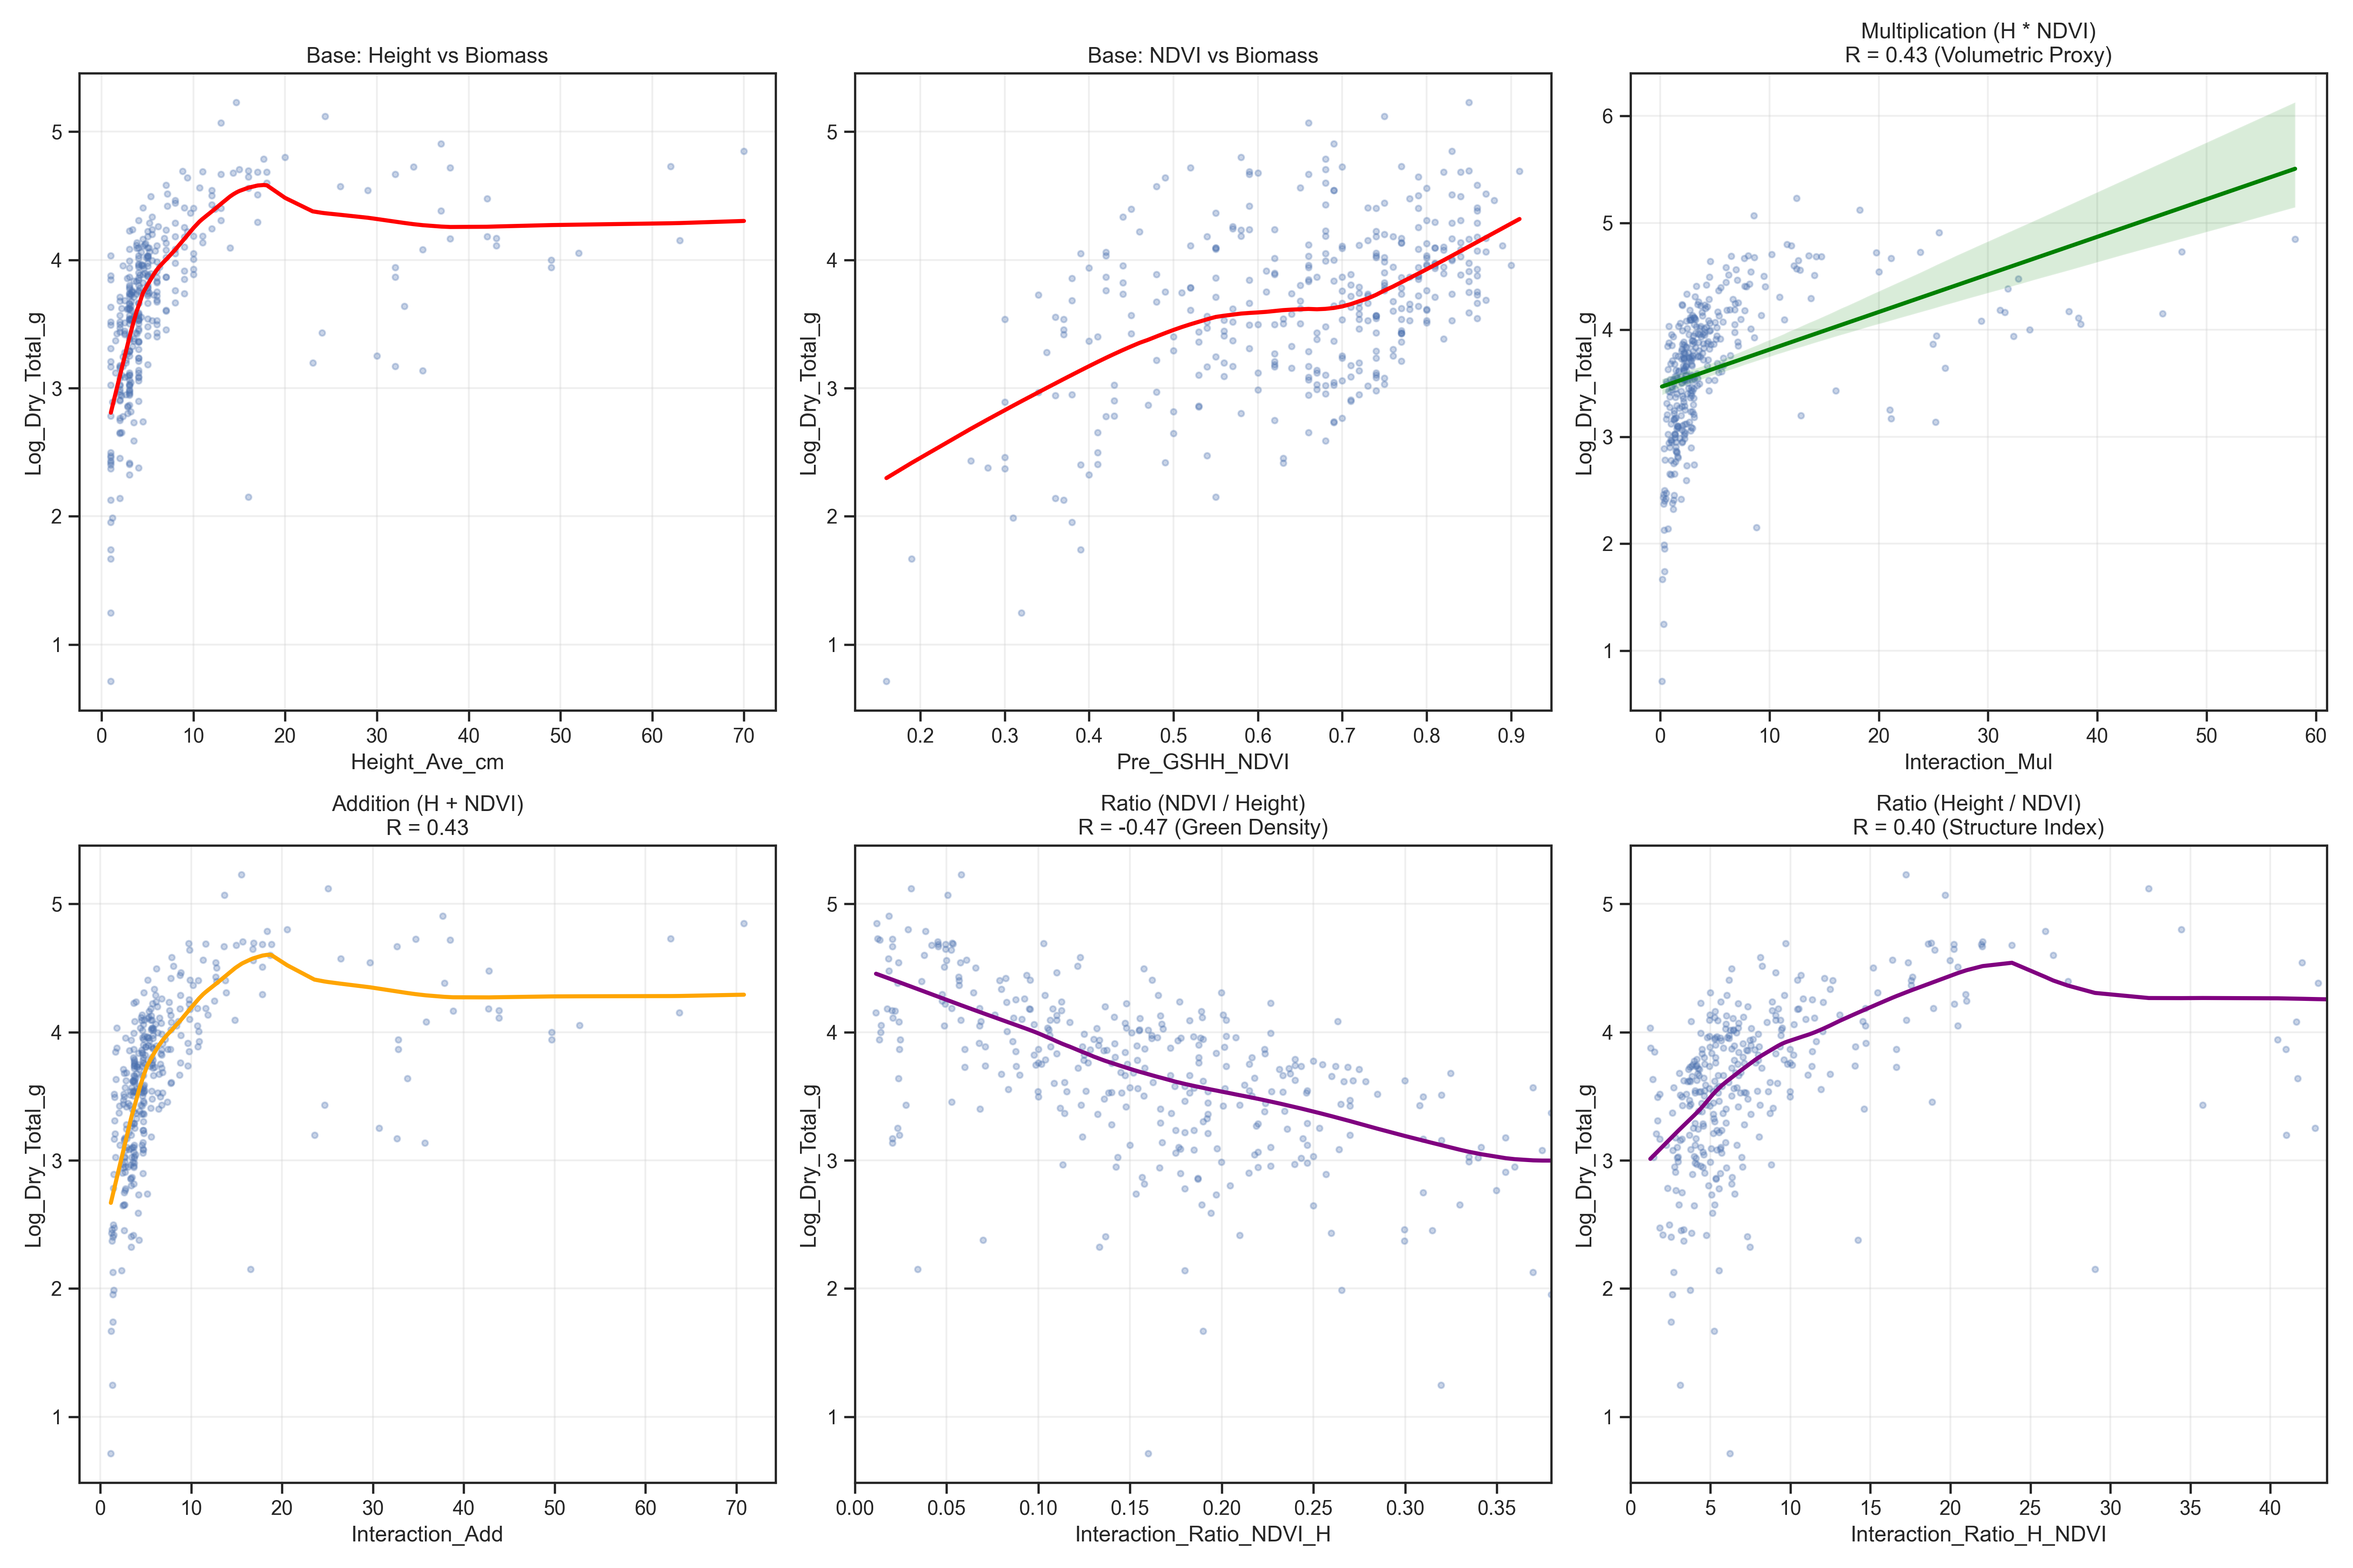
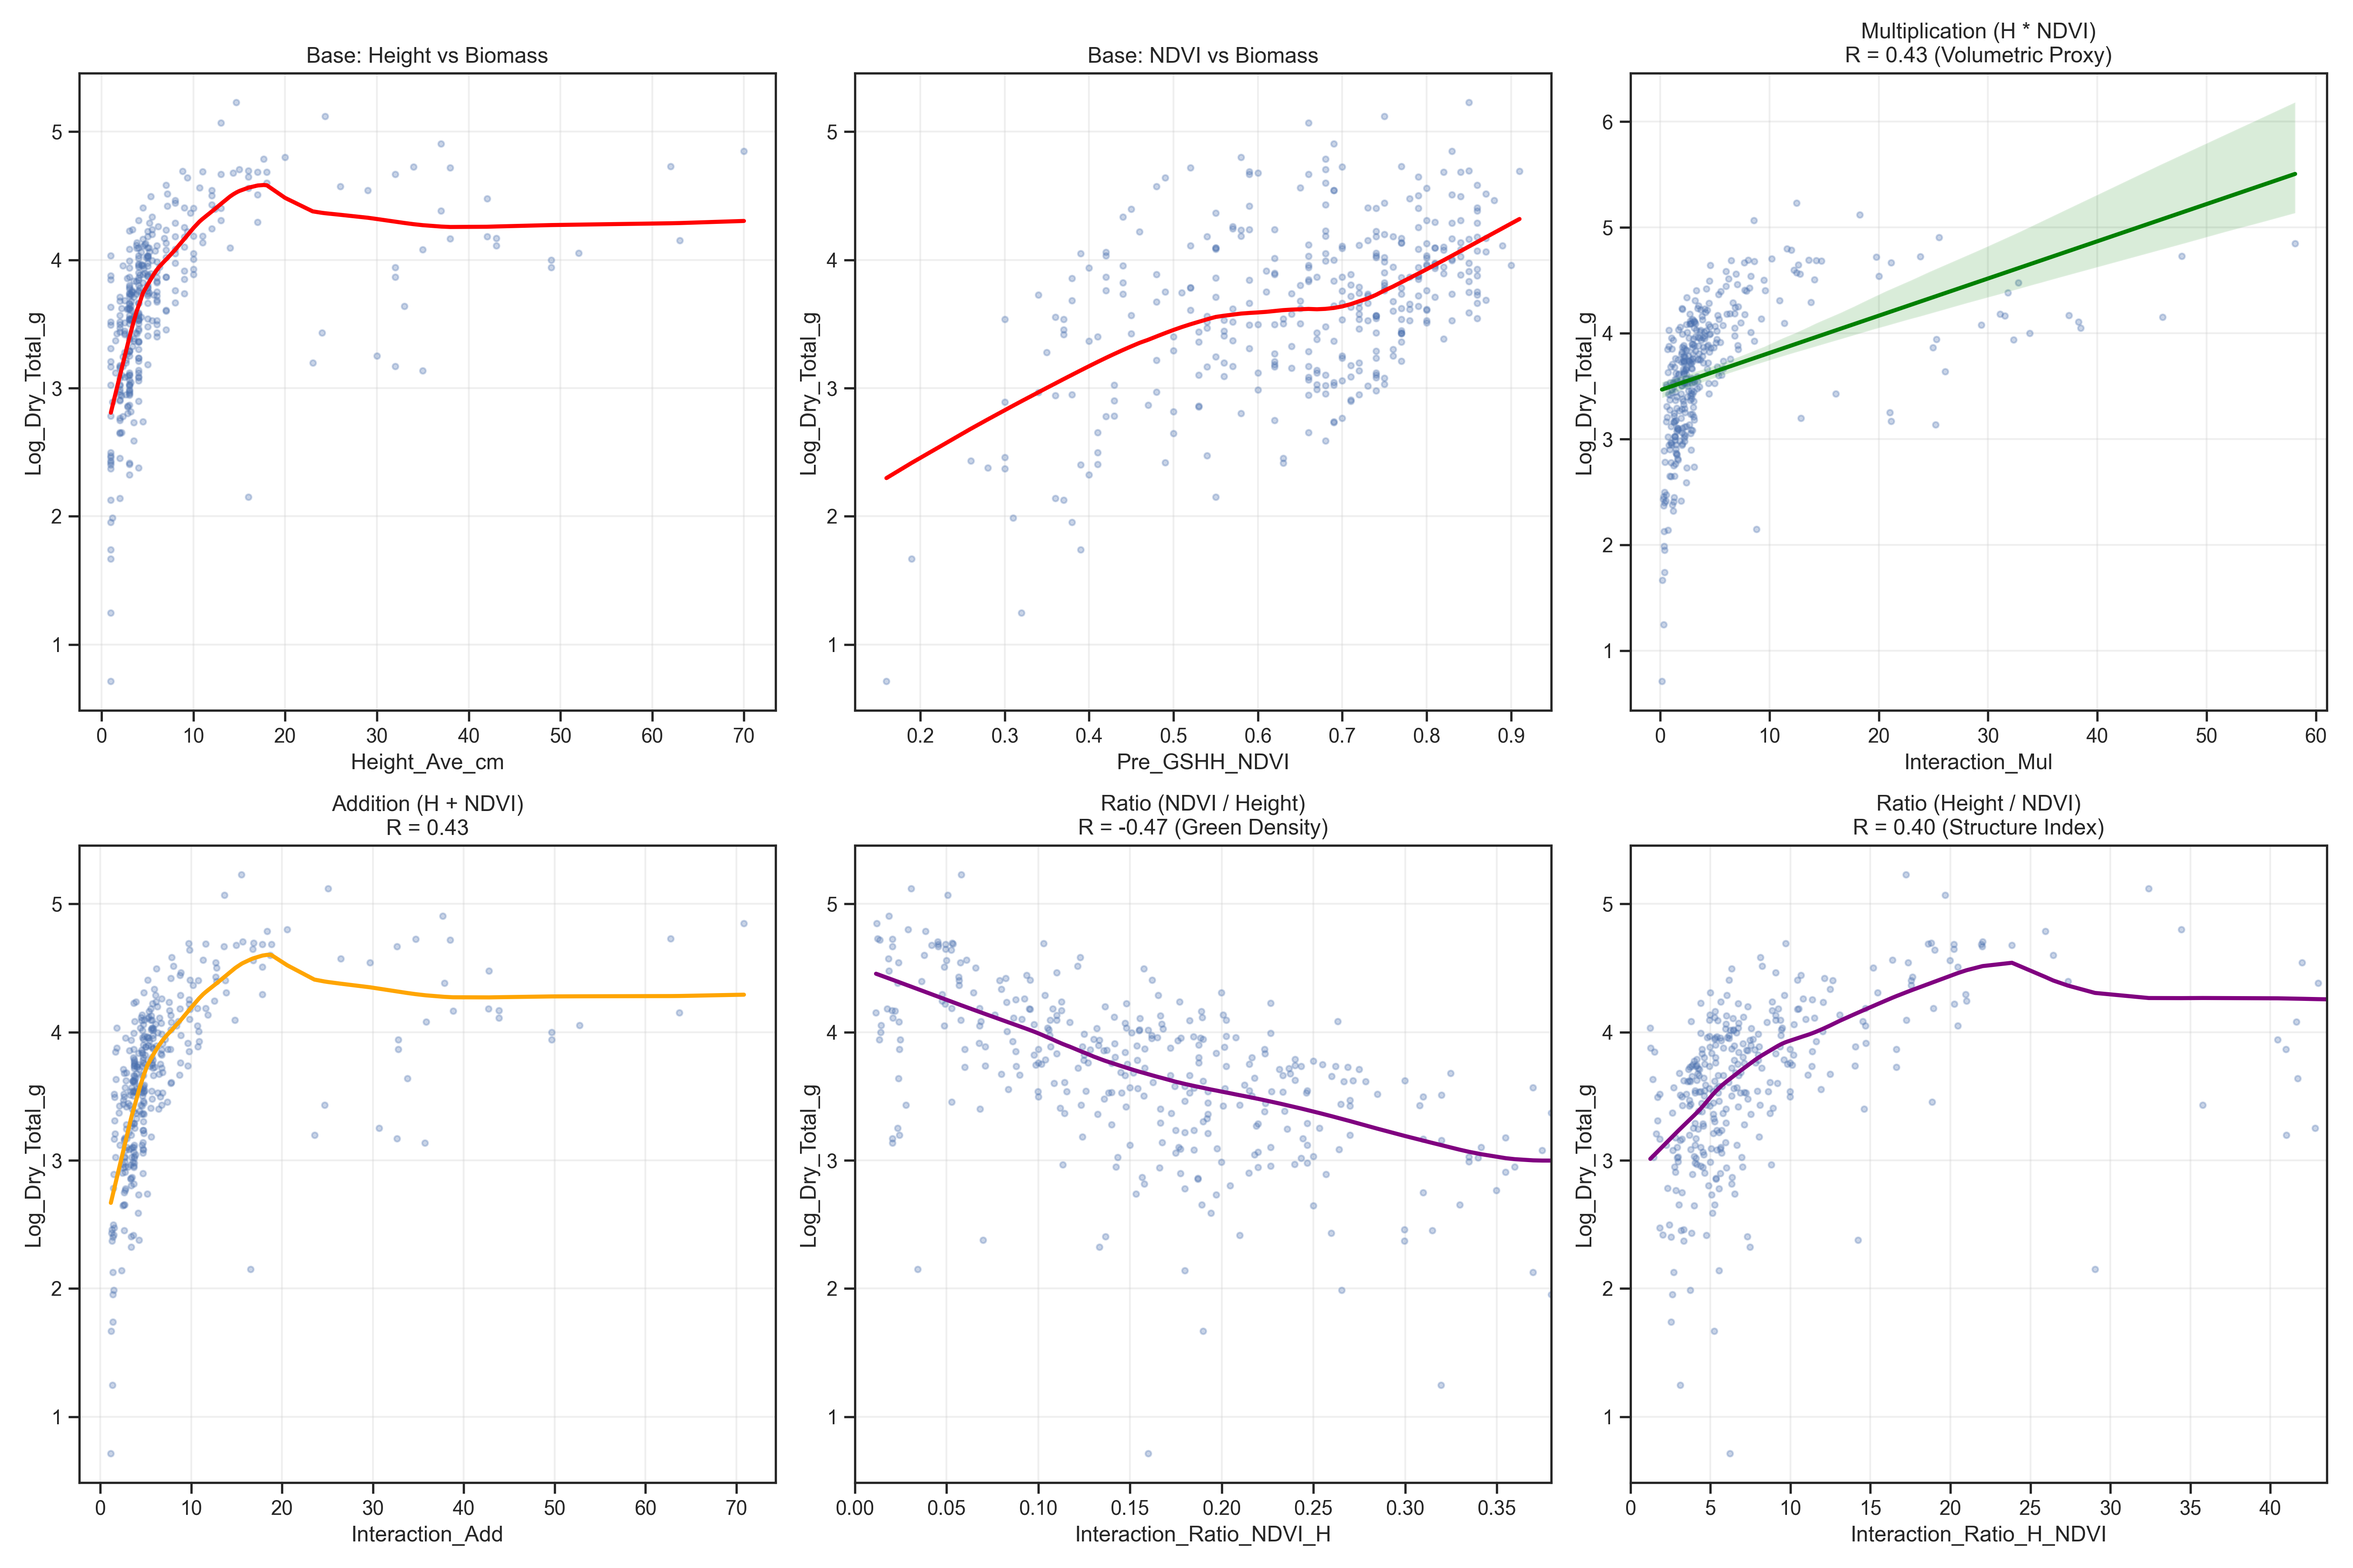
EDA updates

Changed region(s): [[0.6844, 0.0933, 0.9644, 0.3111]]

diff --git a/src/eda.py b/src/eda.py
@@ -310,6 +310,188 @@ def viz_interaction_correlations(df, target_cols):
     plt.close()
     print(f"   -> Saved to {save_path}")
 
+def viz_inter_target_engineering(df, target_cols):
+    """
+    Explores engineered features FROM targets to predict difficult targets (like Dry_Dead).
+    Creates auxiliary features using inter-target relationships.
+    """
+    print("7. Engineering Inter-Target Features for Dry_Dead Prediction...")
+    
+    # Focus on predicting Dry_Dead using other targets as proxies
+    # Physical intuition: Dead material might correlate with ratios/differences of living material
+    
+    # === FEATURE ENGINEERING ===
+    epsilon = 1e-3
+    
+    # 1. Residual-based features (What's "unexplained"?)
+    df['Total_minus_Green'] = df['Dry_Total_g'] - df['Dry_Green_g']  # Should ≈ Dead + Clover
+    df['Total_minus_Clover'] = df['Dry_Total_g'] - df['Dry_Clover_g']  # Should ≈ Dead + Green
+    df['Green_plus_Clover'] = df['Dry_Green_g'] + df['Dry_Clover_g']  # Living biomass
+    df['Unexplained_Mass'] = df['Dry_Total_g'] - df['Green_plus_Clover']  # Should ≈ Dead
+    
+    # 2. Ratio-based features (Composition signals)
+    df['Ratio_Total_Green'] = df['Dry_Total_g'] / (df['Dry_Green_g'] + epsilon)
+    df['Ratio_Total_Clover'] = df['Dry_Total_g'] / (df['Dry_Clover_g'] + epsilon)
+    df['Ratio_Green_Clover'] = df['Dry_Green_g'] / (df['Dry_Clover_g'] + epsilon)
+    df['Ratio_Clover_Total'] = df['Dry_Clover_g'] / (df['Dry_Total_g'] + epsilon)
+    df['Ratio_Green_Total'] = df['Dry_Green_g'] / (df['Dry_Total_g'] + epsilon)
+    
+    # 3. Multiplicative interactions (Non-linear signals)
+    df['Product_Green_Clover'] = df['Dry_Green_g'] * df['Dry_Clover_g']
+    df['Product_Total_Green'] = df['Dry_Total_g'] * df['Dry_Green_g']
+    
+    # 4. Square/Power features (Capturing non-linear mass dynamics)
+    df['Sqrt_Total'] = np.sqrt(df['Dry_Total_g'])
+    df['Sqrt_Green'] = np.sqrt(df['Dry_Green_g'])
+    df['Square_Green'] = df['Dry_Green_g'] ** 2
+    
+    # 5. GDM relationship (GDM often predicts Total well, residuals might help)
+    df['GDM_minus_Total'] = df['GDM_g'] - df['Dry_Total_g']
+    df['Ratio_GDM_Total'] = df['GDM_g'] / (df['Dry_Total_g'] + epsilon)
+    
+    # === CORRELATION ANALYSIS ===
+    
+    # List all engineered features
+    engineered_features = [
+        'Total_minus_Green', 'Total_minus_Clover', 'Green_plus_Clover', 'Unexplained_Mass',
+        'Ratio_Total_Green', 'Ratio_Total_Clover', 'Ratio_Green_Clover', 
+        'Ratio_Clover_Total', 'Ratio_Green_Total',
+        'Product_Green_Clover', 'Product_Total_Green',
+        'Sqrt_Total', 'Sqrt_Green', 'Square_Green',
+        'GDM_minus_Total', 'Ratio_GDM_Total'
+    ]
+    
+    # Target we care about
+    focus_target = 'Dry_Dead_g'
+    
+    # Calculate correlations with Dry_Dead
+    correlations = {}
+    for feat in engineered_features:
+        # Handle infinite/nan from division
+        valid_mask = np.isfinite(df[feat]) & np.isfinite(df[focus_target])
+        if valid_mask.sum() > 10:  # Need sufficient data
+            r, _ = pearsonr(df.loc[valid_mask, feat], df.loc[valid_mask, focus_target])
+            correlations[feat] = r
+        else:
+            correlations[feat] = 0.0
+    
+    # Sort by absolute correlation strength
+    sorted_features = sorted(correlations.items(), key=lambda x: abs(x[1]), reverse=True)
+    
+    # === VISUALIZATION ===
+    
+    fig, axes = plt.subplots(2, 2, figsize=(16, 12))
+    
+    # --- Plot 1: Correlation Bar Chart ---
+    feature_names = [f[0] for f in sorted_features]
+    feature_corrs = [f[1] for f in sorted_features]
+    
+    colors = ['#d62728' if c > 0 else '#1f77b4' for c in feature_corrs]
+    
+    axes[0, 0].barh(feature_names, feature_corrs, color=colors, alpha=0.7)
+    axes[0, 0].axvline(0, color='black', linestyle='-', linewidth=0.8)
+    axes[0, 0].set_xlabel('Pearson Correlation with Dry_Dead_g')
+    axes[0, 0].set_title('Engineered Feature Strength for Predicting Dry_Dead', fontsize=13)
+    axes[0, 0].invert_yaxis()
+    
+    # --- Plot 2: Top Feature Scatter (Best predictor) ---
+    top_feature = sorted_features[0][0]
+    top_corr = sorted_features[0][1]
+    
+    plot_df = df.sample(n=min(1500, len(df)), random_state=42)
+    valid_mask = np.isfinite(plot_df[top_feature]) & np.isfinite(plot_df[focus_target])
+    plot_df_valid = plot_df[valid_mask]
+    
+    sns.scatterplot(data=plot_df_valid, x=top_feature, y=focus_target, 
+                    alpha=0.4, s=20, color='darkred', ax=axes[0, 1])
+    sns.regplot(data=plot_df_valid, x=top_feature, y=focus_target, 
+                scatter=False, lowess=True, line_kws={'color': 'black', 'linewidth': 2}, ax=axes[0, 1])
+    axes[0, 1].set_title(f'Best Predictor: {top_feature}\nR = {top_corr:.3f}', fontsize=13)
+    axes[0, 1].set_ylabel('Dry_Dead_g (Target)')
+    
+    # Zoom to 95th percentile if ratio feature
+    if 'Ratio' in top_feature:
+        axes[0, 1].set_xlim(0, plot_df_valid[top_feature].quantile(0.95))
+    
+    # --- Plot 3: Heatmap of Top Features vs All Targets ---
+    top_n = 8
+    top_feature_list = [f[0] for f in sorted_features[:top_n]]
+    
+    # Add original targets for comparison
+    all_targets_for_heatmap = target_cols
+    
+    # Build correlation matrix
+    heatmap_data = []
+    for feat in top_feature_list:
+        row = []
+        for target in all_targets_for_heatmap:
+            valid_mask = np.isfinite(df[feat]) & np.isfinite(df[target])
+            if valid_mask.sum() > 10:
+                r, _ = pearsonr(df.loc[valid_mask, feat], df.loc[valid_mask, target])
+                row.append(r)
+            else:
+                row.append(0.0)
+        heatmap_data.append(row)
+    
+    heatmap_df = pd.DataFrame(
+        heatmap_data, 
+        index=top_feature_list,
+        columns=[t.replace('_g', '') for t in all_targets_for_heatmap]
+    )
+    
+    sns.heatmap(
+        heatmap_df, 
+        annot=True, 
+        fmt='.2f', 
+        cmap='RdBu_r', 
+        center=0, 
+        linewidths=1,
+        linecolor='white',
+        cbar_kws={"label": "Correlation (r)"},
+        ax=axes[1, 0]
+    )
+    axes[1, 0].set_title(f'Top {top_n} Features vs All Targets', fontsize=13)
+    axes[1, 0].set_ylabel('')
+    
+    # --- Plot 4: Residual Analysis (Physics Check) ---
+    # If we predict Dead using best feature, what's the error pattern?
+    
+    # Simple linear fit
+    from sklearn.linear_model import LinearRegression
+    valid_mask = np.isfinite(df[top_feature]) & np.isfinite(df[focus_target])
+    X_fit = df.loc[valid_mask, top_feature].values.reshape(-1, 1)
+    y_fit = df.loc[valid_mask, focus_target].values
+    
+    model = LinearRegression()
+    model.fit(X_fit, y_fit)
+    y_pred = model.predict(X_fit)
+    residuals = y_fit - y_pred
+    
+    axes[1, 1].scatter(y_pred, residuals, alpha=0.3, s=10, color='purple')
+    axes[1, 1].axhline(0, color='black', linestyle='--', linewidth=1)
+    axes[1, 1].set_xlabel(f'Predicted Dry_Dead (from {top_feature})')
+    axes[1, 1].set_ylabel('Residual (Actual - Predicted)')
+    axes[1, 1].set_title('Residual Pattern Analysis\n(Check for systematic bias)', fontsize=13)
+    
+    # Add std bands
+    std_resid = np.std(residuals)
+    axes[1, 1].axhline(std_resid, color='red', linestyle=':', alpha=0.5, label=f'±1 Std ({std_resid:.2f})')
+    axes[1, 1].axhline(-std_resid, color='red', linestyle=':', alpha=0.5)
+    axes[1, 1].legend()
+    
+    plt.tight_layout()
+    plt.savefig(os.path.join(BASE_VIZ_PATH, '6_Inter_Target_Engineering_for_Dead.png'))
+    plt.close()
+    
+    # === PRINT RECOMMENDATIONS ===
+    print("\n" + "="*60)
+    print("💡 FEATURE ENGINEERING RECOMMENDATIONS FOR DRY_DEAD:")
+    print("="*60)
+    for i, (feat, corr) in enumerate(sorted_features[:5], 1):
+        print(f"  {i}. {feat:30s} | R = {corr:+.3f}")
+    print("="*60)
+
+
 if __name__ == '__main__':
     # Load
     df, targets = process_data('train.csv')
@@ -319,9 +501,10 @@ if __name__ == '__main__':
     viz_distributions(df, targets)
     viz_correlations(df, targets)
     viz_nonlinear(df)
-    
-    # NEW STEP
     viz_interaction_correlations(df, targets)
+    
+    # NEW: Inter-target engineering for Dry_Dead
+    viz_inter_target_engineering(df, targets)
     
     print("="*60)
     print(f"Done. Visualizations saved to: {BASE_VIZ_PATH}")
